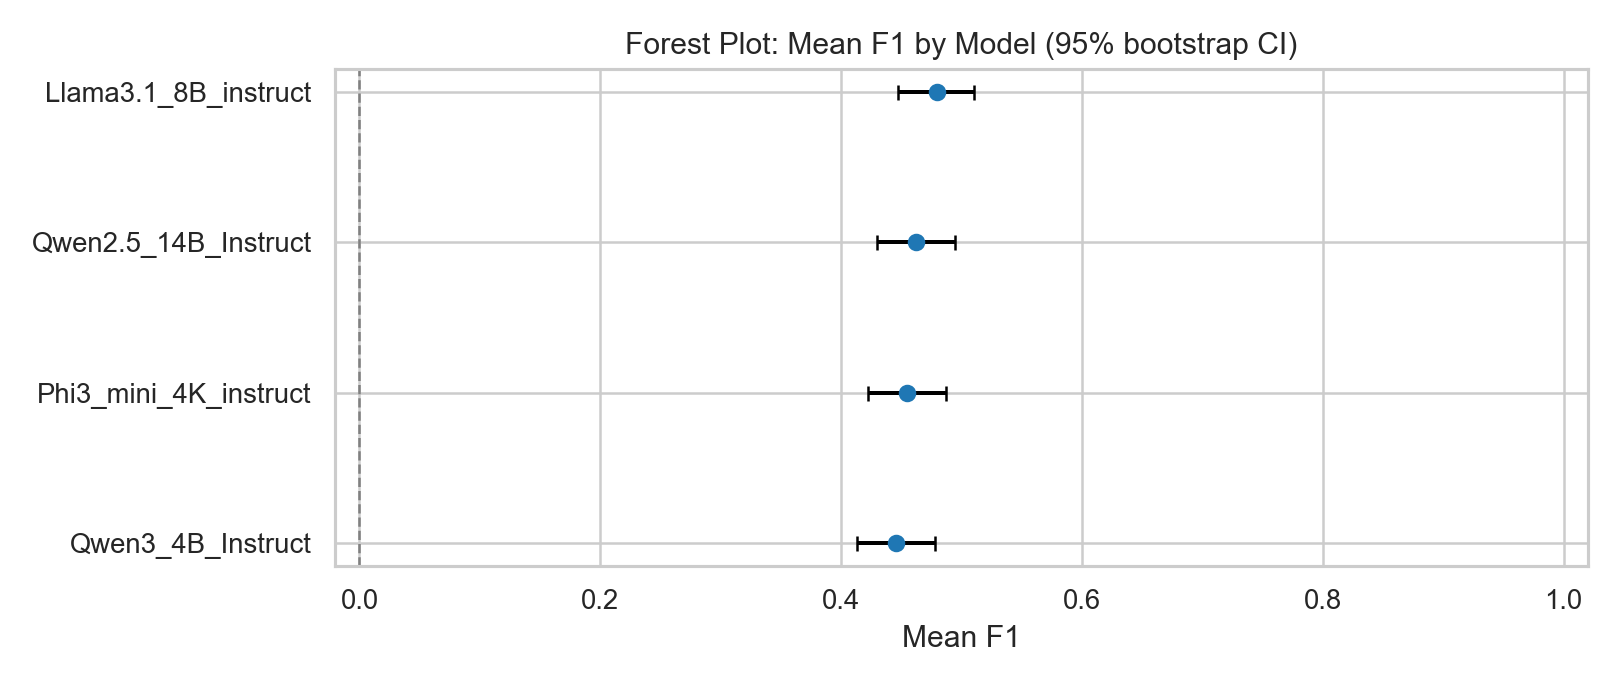
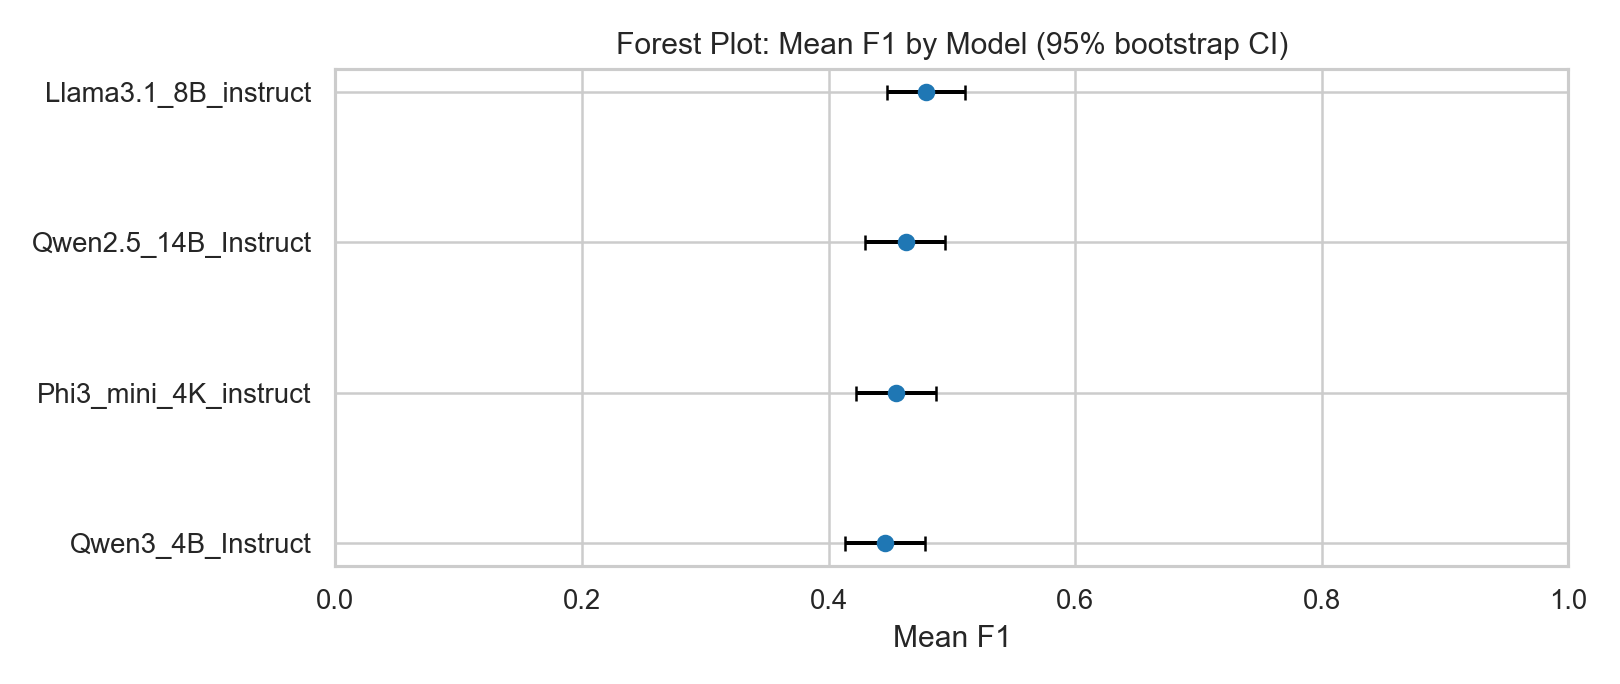
Plots

diff --git a/refactoring_files/artifacts/analyze_final_judged_results.py b/refactoring_files/artifacts/analyze_final_judged_results.py
@@ -291,6 +291,7 @@ def forest_with_ci(
     title: str,
     out_path: Path,
     x_label: str,
+    xlim: tuple[float, float] | None = None,
 ) -> None:
     if table.empty:
         return
@@ -314,13 +315,235 @@ def forest_with_ci(
         capsize=3,
     )
     plt.yticks(y, plot[label_col].tolist())
-    plt.xlim(-0.02, 1.02)
+    if xlim is None:
+        x_min = float(np.nanmin(np.concatenate([means, los, his])))
+        x_max = float(np.nanmax(np.concatenate([means, los, his])))
+        span = x_max - x_min
+        pad = 0.08 * span if span > 1e-9 else 0.05
+        plt.xlim(x_min - pad, x_max + pad)
+    else:
+        plt.xlim(xlim[0], xlim[1])
     plt.axvline(0, color="gray", linestyle="--", linewidth=1)
     plt.xlabel(x_label)
     plt.title(title)
     plt.tight_layout()
     out_path.parent.mkdir(parents=True, exist_ok=True)
     plt.savefig(out_path, dpi=180)
+    plt.close()
+
+
+def pair_outcomes(
+    pairs: pd.DataFrame,
+    tol: float = 1e-12,
+) -> tuple[pd.DataFrame, pd.DataFrame, pd.DataFrame]:
+    if pairs.empty:
+        return pd.DataFrame(), pd.DataFrame(), pd.DataFrame()
+    p = pairs.copy()
+    delta = p["f1_rag"] - p["f1_dp"]
+    p["delta_f1_rag_minus_dp"] = delta
+    p["pair_outcome"] = np.where(delta > tol, "RAG wins", np.where(delta < -tol, "RAG loses", "Tie"))
+
+    def summarize(df: pd.DataFrame, group_cols: list[str]) -> pd.DataFrame:
+        counts = (
+            df.groupby(group_cols + ["pair_outcome"], dropna=False)
+            .size()
+            .rename("n")
+            .reset_index()
+        )
+        if group_cols:
+            counts["pct"] = counts.groupby(group_cols, dropna=False)["n"].transform(lambda s: 100.0 * s / s.sum())
+        else:
+            total = float(counts["n"].sum()) if len(counts) else 1.0
+            counts["pct"] = 100.0 * counts["n"] / total
+        return counts.sort_values(group_cols + ["pair_outcome"])
+
+    overall = summarize(p, [])
+    by_model = summarize(p, ["model"])
+    by_model_book = summarize(p, ["model", "book"])
+    return overall, by_model, by_model_book
+
+
+def stacked_percent_bar_from_counts(
+    counts: pd.DataFrame,
+    index_cols: list[str],
+    category_col: str,
+    order: list[str] | None,
+    category_order: list[str],
+    title: str,
+    out_path: Path,
+) -> None:
+    if counts.empty:
+        return
+    c = counts.copy()
+    idx_name = "__idx__"
+    if len(index_cols) == 1:
+        c[idx_name] = c[index_cols[0]].astype(str)
+    else:
+        c[idx_name] = c[index_cols].astype(str).agg(" | ".join, axis=1)
+
+    pivot = c.pivot_table(index=idx_name, columns=category_col, values="pct", aggfunc="sum", fill_value=0)
+    existing_cat_order = [x for x in category_order if x in pivot.columns]
+    pivot = pivot.reindex(columns=existing_cat_order)
+    if order is not None:
+        pivot = pivot.reindex([o for o in order if o in pivot.index])
+
+    colors = ["#2ca02c", "#7f7f7f", "#d62728"]  # win, tie, lose
+    plt.figure(figsize=(max(8, 0.9 * len(pivot.index) + 2), 5.4))
+    bottom = np.zeros(len(pivot.index))
+    x = np.arange(len(pivot.index))
+    for i, cat in enumerate(existing_cat_order):
+        vals = pivot[cat].to_numpy(dtype=float)
+        plt.bar(x, vals, bottom=bottom, label=cat, color=colors[i % len(colors)], width=0.75)
+        bottom += vals
+
+    plt.xticks(x, pivot.index.tolist(), rotation=20 if len(pivot.index) > 5 else 0, ha="right")
+    plt.ylim(0, 100)
+    plt.ylabel("Percentage of Paired Questions")
+    plt.title(title)
+    plt.legend(title="Outcome", bbox_to_anchor=(1.02, 1), loc="upper left")
+    plt.tight_layout()
+    out_path.parent.mkdir(parents=True, exist_ok=True)
+    plt.savefig(out_path, dpi=180)
+    plt.close()
+
+
+def ecdf_delta_plot(pairs: pd.DataFrame, model_order: list[str], out_path: Path) -> None:
+    if pairs.empty:
+        return
+    plt.figure(figsize=(10, 6))
+    for model in model_order:
+        sub = pairs[pairs["model"] == model]
+        if sub.empty:
+            continue
+        x = np.sort((sub["f1_rag"] - sub["f1_dp"]).to_numpy(dtype=float))
+        y = np.arange(1, len(x) + 1) / len(x)
+        plt.step(x, y, where="post", linewidth=2, label=f"{model} (n={len(x)})")
+    plt.axvline(0, color="black", linestyle="--", linewidth=1)
+    plt.xlim(-1.01, 1.01)
+    plt.ylim(0, 1.01)
+    plt.xlabel("Per-question Delta F1 (RAG - DP)")
+    plt.ylabel("ECDF")
+    plt.title("ECDF of Delta F1 (RAG - DP) by Model")
+    plt.legend(bbox_to_anchor=(1.02, 1), loc="upper left")
+    plt.tight_layout()
+    out_path.parent.mkdir(parents=True, exist_ok=True)
+    plt.savefig(out_path, dpi=180)
+    plt.close()
+
+
+def retrieval_delta_table(rows: pd.DataFrame) -> pd.DataFrame:
+    df = rows.copy()
+    df["retrieval_type"] = df.get("retrieval_type", pd.Series("", index=df.index)).astype(str)
+    grouped = (
+        df.groupby(["model", "method", "retrieval_type"], dropna=False)
+        .agg(n_rows=("f1", "size"), sum_f1=("f1", "sum"))
+        .reset_index()
+    )
+    grouped["weighted_mean_f1"] = grouped["sum_f1"] / grouped["n_rows"].clip(lower=1)
+
+    rag = grouped[grouped["method"] == "RAG"][["model", "retrieval_type", "n_rows", "weighted_mean_f1"]].rename(
+        columns={"n_rows": "n_rag", "weighted_mean_f1": "f1_rag_weighted"}
+    )
+    dp = grouped[grouped["method"] == "DP"][["model", "retrieval_type", "n_rows", "weighted_mean_f1"]].rename(
+        columns={"n_rows": "n_dp", "weighted_mean_f1": "f1_dp_weighted"}
+    )
+    merged = pd.merge(rag, dp, on=["model", "retrieval_type"], how="outer")
+    merged["f1_rag_weighted"] = pd.to_numeric(merged["f1_rag_weighted"], errors="coerce")
+    merged["f1_dp_weighted"] = pd.to_numeric(merged["f1_dp_weighted"], errors="coerce")
+    merged["delta_rag_minus_dp"] = merged["f1_rag_weighted"] - merged["f1_dp_weighted"]
+    return merged.sort_values(["model", "retrieval_type"])
+
+
+def error_bucket(row: pd.Series) -> str:
+    try:
+        f1 = float(row.get("f1", np.nan))
+    except Exception:
+        f1 = np.nan
+    em = int(row.get("exact_match", 0)) if not pd.isna(row.get("exact_match", np.nan)) else 0
+    if em == 1:
+        return "Exact Match"
+    if not math.isnan(f1) and abs(f1) < 1e-12:
+        return "Zero F1"
+    if not math.isnan(f1) and f1 < 0.5:
+        return "Low F1 (0,0.5)"
+    return "Mid F1 [0.5,1)"
+
+
+def stacked_error_profile(
+    rows: pd.DataFrame,
+    out_dir: Path,
+    model_order: list[str],
+) -> None:
+    bucket_order = ["Exact Match", "Mid F1 [0.5,1)", "Low F1 (0,0.5)", "Zero F1"]
+    colors = ["#2ca02c", "#1f77b4", "#ff7f0e", "#d62728"]
+
+    df = rows.copy()
+    df["error_bucket"] = df.apply(error_bucket, axis=1)
+
+    # Mode-only stacked bars
+    mode_counts = (
+        df.groupby(["method", "error_bucket"], dropna=False)
+        .size()
+        .rename("n")
+        .reset_index()
+    )
+    mode_counts["pct"] = mode_counts.groupby("method", dropna=False)["n"].transform(lambda s: 100.0 * s / s.sum())
+    mode_counts.to_csv(out_dir / "error_profile_by_method.csv", index=False)
+
+    pivot = mode_counts.pivot_table(index="method", columns="error_bucket", values="pct", fill_value=0)
+    pivot = pivot.reindex(index=METHOD_ORDER, columns=[b for b in bucket_order if b in pivot.columns])
+    x = np.arange(len(pivot.index))
+    bottom = np.zeros(len(pivot.index))
+    plt.figure(figsize=(7.8, 5.2))
+    for i, b in enumerate(pivot.columns):
+        vals = pivot[b].to_numpy(dtype=float)
+        plt.bar(x, vals, bottom=bottom, width=0.65, label=b, color=colors[i % len(colors)])
+        bottom += vals
+    plt.xticks(x, pivot.index.tolist())
+    plt.ylim(0, 100)
+    plt.ylabel("Percentage of Questions")
+    plt.title("Error Profile by Mode")
+    plt.legend(title="Bucket", bbox_to_anchor=(1.02, 1), loc="upper left")
+    plt.tight_layout()
+    plt.savefig(out_dir / "stacked_error_profile_by_method.png", dpi=180)
+    plt.close()
+
+    # Model x mode stacked bars
+    df["model_method"] = df["model"].astype(str) + " | " + df["method"].astype(str)
+    mm_counts = (
+        df.groupby(["model", "method", "model_method", "error_bucket"], dropna=False)
+        .size()
+        .rename("n")
+        .reset_index()
+    )
+    mm_counts["pct"] = mm_counts.groupby(["model", "method"], dropna=False)["n"].transform(
+        lambda s: 100.0 * s / s.sum()
+    )
+    mm_counts.to_csv(out_dir / "error_profile_by_model_method.csv", index=False)
+
+    model_method_order = []
+    for m in model_order:
+        for method in METHOD_ORDER:
+            label = f"{m} | {method}"
+            if label in set(mm_counts["model_method"]):
+                model_method_order.append(label)
+
+    pivot = mm_counts.pivot_table(index="model_method", columns="error_bucket", values="pct", fill_value=0)
+    pivot = pivot.reindex(index=model_method_order, columns=[b for b in bucket_order if b in pivot.columns])
+    x = np.arange(len(pivot.index))
+    bottom = np.zeros(len(pivot.index))
+    plt.figure(figsize=(max(10, 0.95 * len(pivot.index) + 2), 5.6))
+    for i, b in enumerate(pivot.columns):
+        vals = pivot[b].to_numpy(dtype=float)
+        plt.bar(x, vals, bottom=bottom, width=0.75, label=b, color=colors[i % len(colors)])
+        bottom += vals
+    plt.xticks(x, pivot.index.tolist(), rotation=25, ha="right")
+    plt.ylim(0, 100)
+    plt.ylabel("Percentage of Questions")
+    plt.title("Error Profile by Model and Mode")
+    plt.legend(title="Bucket", bbox_to_anchor=(1.02, 1), loc="upper left")
+    plt.tight_layout()
+    plt.savefig(out_dir / "stacked_error_profile_by_model_method.png", dpi=180)
     plt.close()
 
 
@@ -546,6 +769,7 @@ def main() -> None:
         title="Forest Plot: Mean F1 by Model (95% bootstrap CI)",
         out_path=out_dir / "forest_mean_f1_by_model.png",
         x_label="Mean F1",
+        xlim=(0.0, 1.0),
     )
 
     # Chronological-awareness score tables + plots
@@ -618,6 +842,7 @@ def main() -> None:
         title="Forest Plot: Chronological Awareness by Model (95% bootstrap CI)",
         out_path=out_dir / "forest_chronological_awareness_by_model.png",
         x_label="Chronological Awareness Score",
+        xlim=(0.0, 1.0),
     )
 
     # Heatmaps
@@ -655,6 +880,27 @@ def main() -> None:
         center=0.0,
     )
 
+    # Retrieval-type weighted delta heatmap (RAG - DP)
+    retrieval_delta = retrieval_delta_table(rows)
+    retrieval_delta.to_csv(out_dir / "retrieval_type_delta_rag_minus_dp_by_model.csv", index=False)
+    retrieval_order = (
+        retrieval_delta.groupby("retrieval_type", as_index=False)["delta_rag_minus_dp"]
+        .mean()
+        .sort_values("delta_rag_minus_dp", ascending=False)["retrieval_type"]
+        .tolist()
+    )
+    retrieval_delta_pivot = retrieval_delta.pivot(
+        index="model", columns="retrieval_type", values="delta_rag_minus_dp"
+    )
+    retrieval_delta_pivot = retrieval_delta_pivot.reindex(index=model_order, columns=retrieval_order)
+    heatmap(
+        retrieval_delta_pivot,
+        title="Weighted Mean F1 Delta (RAG - DP) by Retrieval Type",
+        out_path=out_dir / "heatmap_retrieval_delta_rag_minus_dp.png",
+        cmap="RdBu_r",
+        center=0.0,
+    )
+
     # Category heatmaps by method
     for method in METHOD_ORDER:
         cat = rows[rows["method"] == method].copy()
@@ -678,6 +924,47 @@ def main() -> None:
     missing_notes: list[str] = []
     if not pairs.empty:
         pairs.to_csv(out_dir / "paired_row_differences_dp_minus_rag.csv", index=False)
+        pairs = pairs.copy()
+        pairs["delta_f1_rag_minus_dp"] = pairs["f1_rag"] - pairs["f1_dp"]
+        pairs.to_csv(out_dir / "paired_row_differences_rag_minus_dp.csv", index=False)
+
+        # Win/Tie/Lose summaries from matched row_key pairs
+        wt_overall, wt_by_model, wt_by_model_book = pair_outcomes(pairs)
+        wt_overall.to_csv(out_dir / "win_tie_loss_overall.csv", index=False)
+        wt_by_model.to_csv(out_dir / "win_tie_loss_by_model.csv", index=False)
+        wt_by_model_book.to_csv(out_dir / "win_tie_loss_by_model_book.csv", index=False)
+
+        stacked_percent_bar_from_counts(
+            counts=wt_by_model,
+            index_cols=["model"],
+            category_col="pair_outcome",
+            order=model_order,
+            category_order=["RAG wins", "Tie", "RAG loses"],
+            title="Matched Row Pairs: RAG Wins vs Ties vs Losses by Model",
+            out_path=out_dir / "stacked_win_tie_loss_by_model.png",
+        )
+
+        by_book_counts = (
+            wt_by_model_book.groupby(["book", "pair_outcome"], as_index=False)
+            .agg(n=("n", "sum"))
+        )
+        by_book_counts["pct"] = by_book_counts.groupby("book")["n"].transform(lambda s: 100.0 * s / s.sum())
+        stacked_percent_bar_from_counts(
+            counts=by_book_counts,
+            index_cols=["book"],
+            category_col="pair_outcome",
+            order=BOOK_ORDER,
+            category_order=["RAG wins", "Tie", "RAG loses"],
+            title="Matched Row Pairs: RAG Wins vs Ties vs Losses by Book",
+            out_path=out_dir / "stacked_win_tie_loss_by_book.png",
+        )
+
+        # ECDF of per-question delta F1 (RAG - DP)
+        ecdf_delta_plot(
+            pairs=pairs,
+            model_order=model_order,
+            out_path=out_dir / "ecdf_delta_f1_rag_minus_dp_by_model.png",
+        )
 
         diff_rows = []
         for model, g in pairs.groupby("model"):
@@ -692,6 +979,34 @@ def main() -> None:
             diff_rows.append({"book": book, "n": len(g), "mean_diff_f1": mean_, "ci_low": lo, "ci_high": hi})
         diffs_book = pd.DataFrame(diff_rows).sort_values("mean_diff_f1", ascending=False)
         diffs_book.to_csv(out_dir / "dp_minus_rag_effect_by_book.csv", index=False)
+
+        # Forest summary: one point per model-dataset (book) with bootstrap CI on mean delta (RAG - DP)
+        effect_rows = []
+        for i, ((model, book), g) in enumerate(pairs.groupby(["model", "book"], dropna=False)):
+            mean_, lo, hi, _ = mean_ci(g["delta_f1_rag_minus_dp"], args.bootstrap, args.seed + 800 + i)
+            effect_rows.append(
+                {
+                    "model": model,
+                    "book": book,
+                    "label": f"{model} | {book}",
+                    "n": len(g),
+                    "mean_delta_f1_rag_minus_dp": mean_,
+                    "ci_low": lo,
+                    "ci_high": hi,
+                }
+            )
+        effect_tbl = pd.DataFrame(effect_rows).sort_values("mean_delta_f1_rag_minus_dp", ascending=False)
+        effect_tbl.to_csv(out_dir / "forest_effect_by_model_book_rag_minus_dp.csv", index=False)
+        forest_with_ci(
+            table=effect_tbl.rename(columns={"mean_delta_f1_rag_minus_dp": "mean"}),
+            label_col="label",
+            mean_col="mean",
+            lo_col="ci_low",
+            hi_col="ci_high",
+            title="Forest Plot: Mean Delta F1 (RAG - DP) by Model-Book",
+            out_path=out_dir / "forest_delta_f1_rag_minus_dp_by_model_book.png",
+            x_label="Mean Delta F1 (RAG - DP)",
+        )
 
         gardner_altman_by_group(
             pairs=pairs,
@@ -713,6 +1028,9 @@ def main() -> None:
         diffs_model = pd.DataFrame()
         diffs_book = pd.DataFrame()
         missing_notes.append("No paired DP/RAG rows could be matched using row_key.")
+
+    # Error-profile stacked bars
+    stacked_error_profile(rows=rows, out_dir=out_dir, model_order=model_order)
 
     # Data-quality notes
     counts = overall[["model", "condition", "n_rows"]].copy()
